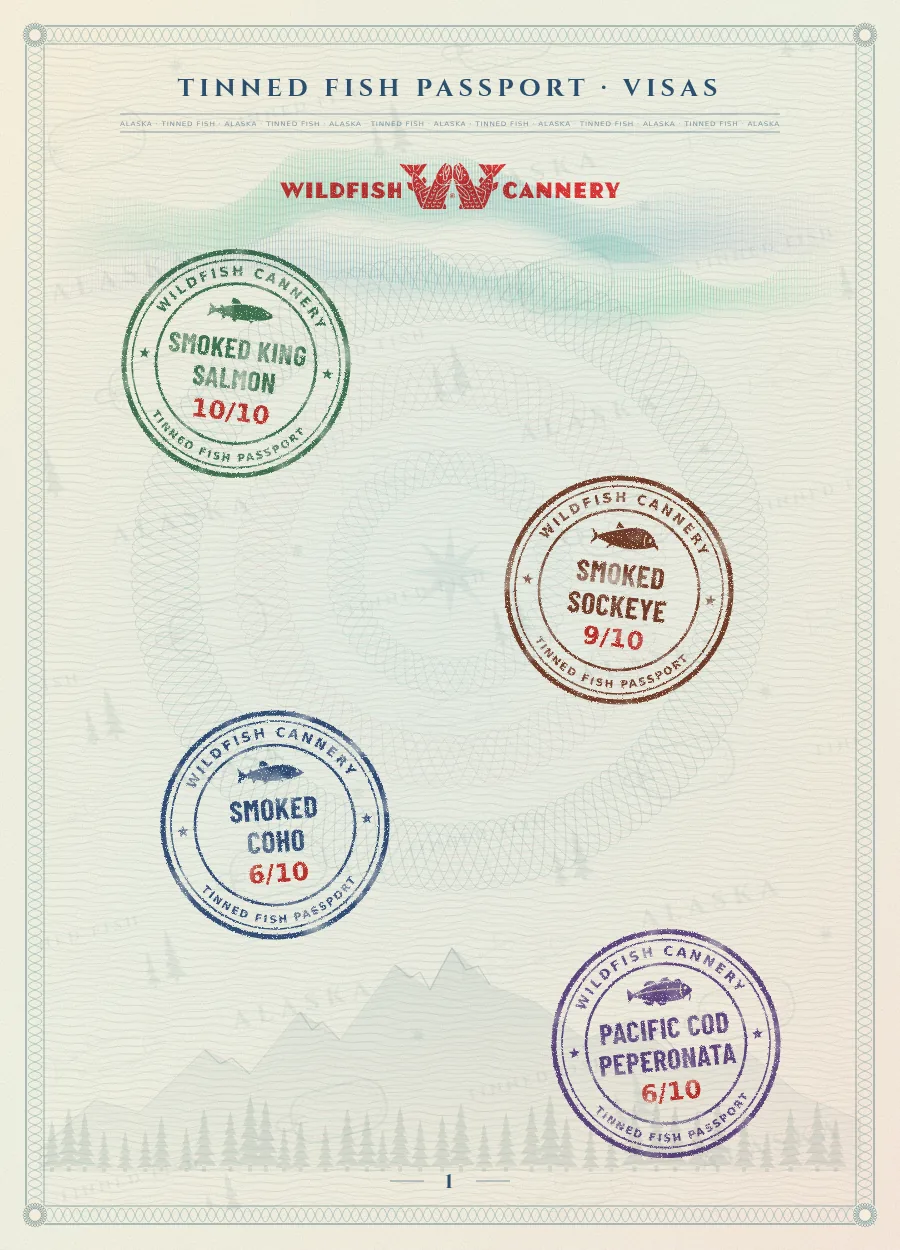
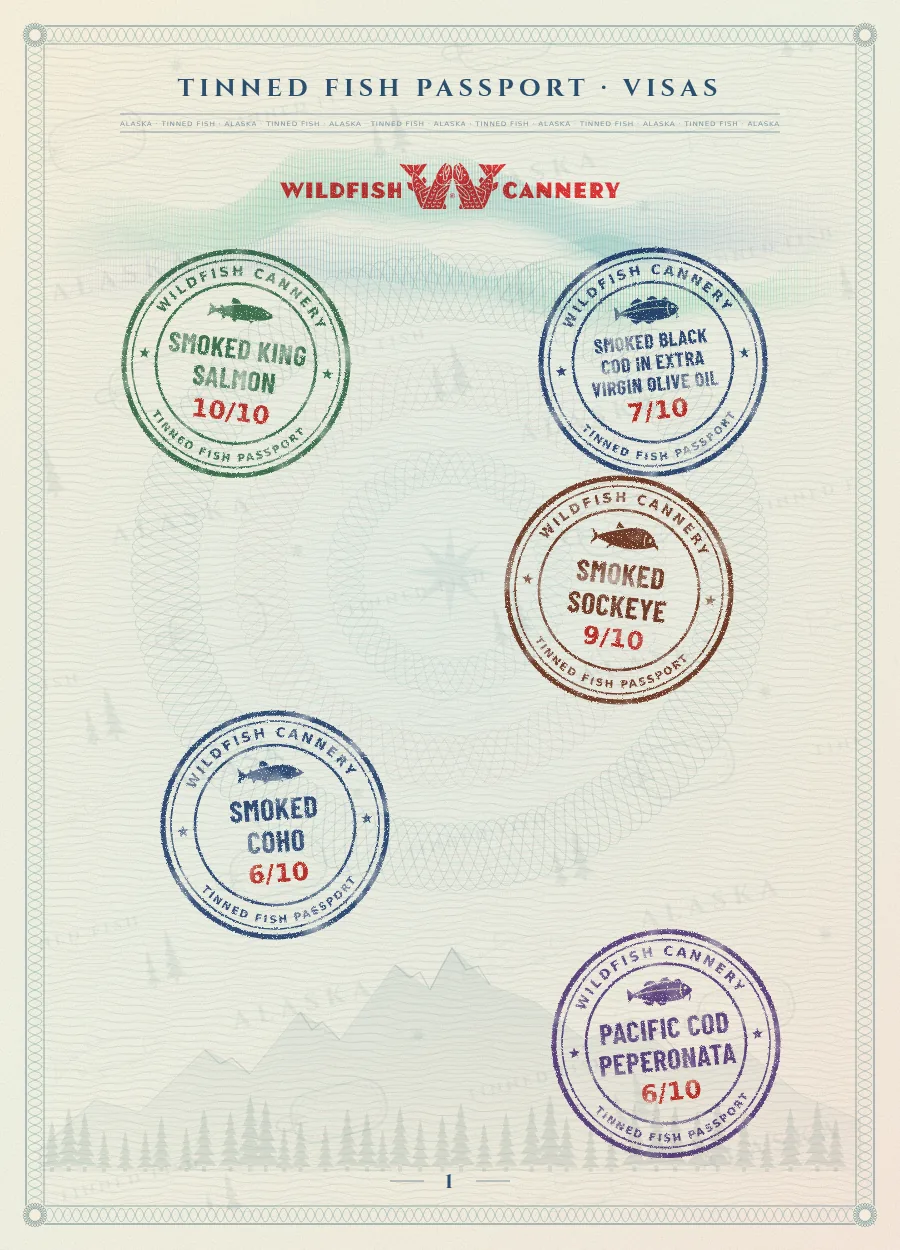
Update passport 2026-11-09 11:46

Changed region(s): [[0.5911, 0.1872, 0.8711, 0.4056]]

diff --git a/index.html b/index.html
@@ -1,7 +1,7 @@
 <!doctype html><html lang="en"><head><meta charset="utf-8">
 <meta name="viewport" content="width=device-width,initial-scale=1,viewport-fit=cover">
 <title>Tinned Fish Passport</title>
-<meta name="description" content="11 tins from 6 brands, stamped and rated.">
+<meta name="description" content="12 tins from 6 brands, stamped and rated.">
 <meta property="og:title" content="Tinned Fish Passport"><meta property="og:image" content="img/cover.jpg">
 <link rel="icon" href="favicon.ico" sizes="16x16 32x32 48x48">
 <link rel="icon" type="image/png" sizes="32x32" href="favicon-32.png">
@@ -54,7 +54,7 @@ tr:nth-child(even) td{background:#efe7d1}
 footer{text-align:center;font-size:12px;opacity:.45;padding-bottom:30px}
 @media (prefers-reduced-motion:reduce){.leaf{transition:none}}
 </style></head><body>
-<header><h1>TINNED FISH PASSPORT</h1><p>11 tins · 6 brands</p></header>
+<header><h1>TINNED FISH PASSPORT</h1><p>12 tins · 6 brands</p></header>
 <div id="viewer"><button class="fsclose" id="fsclose" aria-label="Exit full screen">×</button>
 <div class="stage"><div class="book" id="book">
 <div class="leaf" style="z-index:8"><div class="front"><picture><source srcset="img/cover.webp" type="image/webp"><img src="img/cover.jpg" alt="Tinned Fish Passport — cover" width="900" height="1250"  draggable="false"></picture></div><div class="back"></div></div>
@@ -77,10 +77,11 @@ footer{text-align:center;font-size:12px;opacity:.45;padding-bottom:30px}
 <tr><td class="rk">5</td><td><b>Smoked Rainbow Trout with Red Chimichurri</b><span>Fishwife</span></td><td class="rt">8<small>/10</small></td></tr>
 <tr><td class="rk">5</td><td><b>Smoked Trout</b><span>Trader Joe&#x27;S</span></td><td class="rt">8<small>/10</small></td></tr>
 <tr><td class="rk">7</td><td><b>Octopus in Olive Oil</b><span>La Barca</span></td><td class="rt">7<small>/10</small></td></tr>
-<tr><td class="rk">8</td><td><b>Boneless Kipper Fillets</b><span>Kersen</span></td><td class="rt">6<small>/10</small></td></tr>
-<tr><td class="rk">8</td><td><b>Pacific Cod Peperonata</b><span>Wildfish Cannery</span></td><td class="rt">6<small>/10</small></td></tr>
-<tr><td class="rk">8</td><td><b>Smoked Coho</b><span>Wildfish Cannery</span></td><td class="rt">6<small>/10</small></td></tr>
-<tr><td class="rk">11</td><td><b>Smoked Small Mackerel in Olive Oil</b><span>José Gourmet</span></td><td class="rt">4<small>/10</small></td></tr></table></section>
+<tr><td class="rk">7</td><td><b>Smoked Black Cod in Extra Virgin Olive Oil</b><span>Wildfish Cannery</span></td><td class="rt">7<small>/10</small></td></tr>
+<tr><td class="rk">9</td><td><b>Boneless Kipper Fillets</b><span>Kersen</span></td><td class="rt">6<small>/10</small></td></tr>
+<tr><td class="rk">9</td><td><b>Pacific Cod Peperonata</b><span>Wildfish Cannery</span></td><td class="rt">6<small>/10</small></td></tr>
+<tr><td class="rk">9</td><td><b>Smoked Coho</b><span>Wildfish Cannery</span></td><td class="rt">6<small>/10</small></td></tr>
+<tr><td class="rk">12</td><td><b>Smoked Small Mackerel in Olive Oil</b><span>José Gourmet</span></td><td class="rt">4<small>/10</small></td></tr></table></section>
 <script>
 const leaves=[...document.querySelectorAll('.leaf')],dots=[...document.querySelectorAll('.dot')],N=leaves.length;let cur=0;
 function show(i){cur=Math.max(0,Math.min(N-1,i));leaves.forEach((l,k)=>{l.classList.toggle('turned',k<cur);
